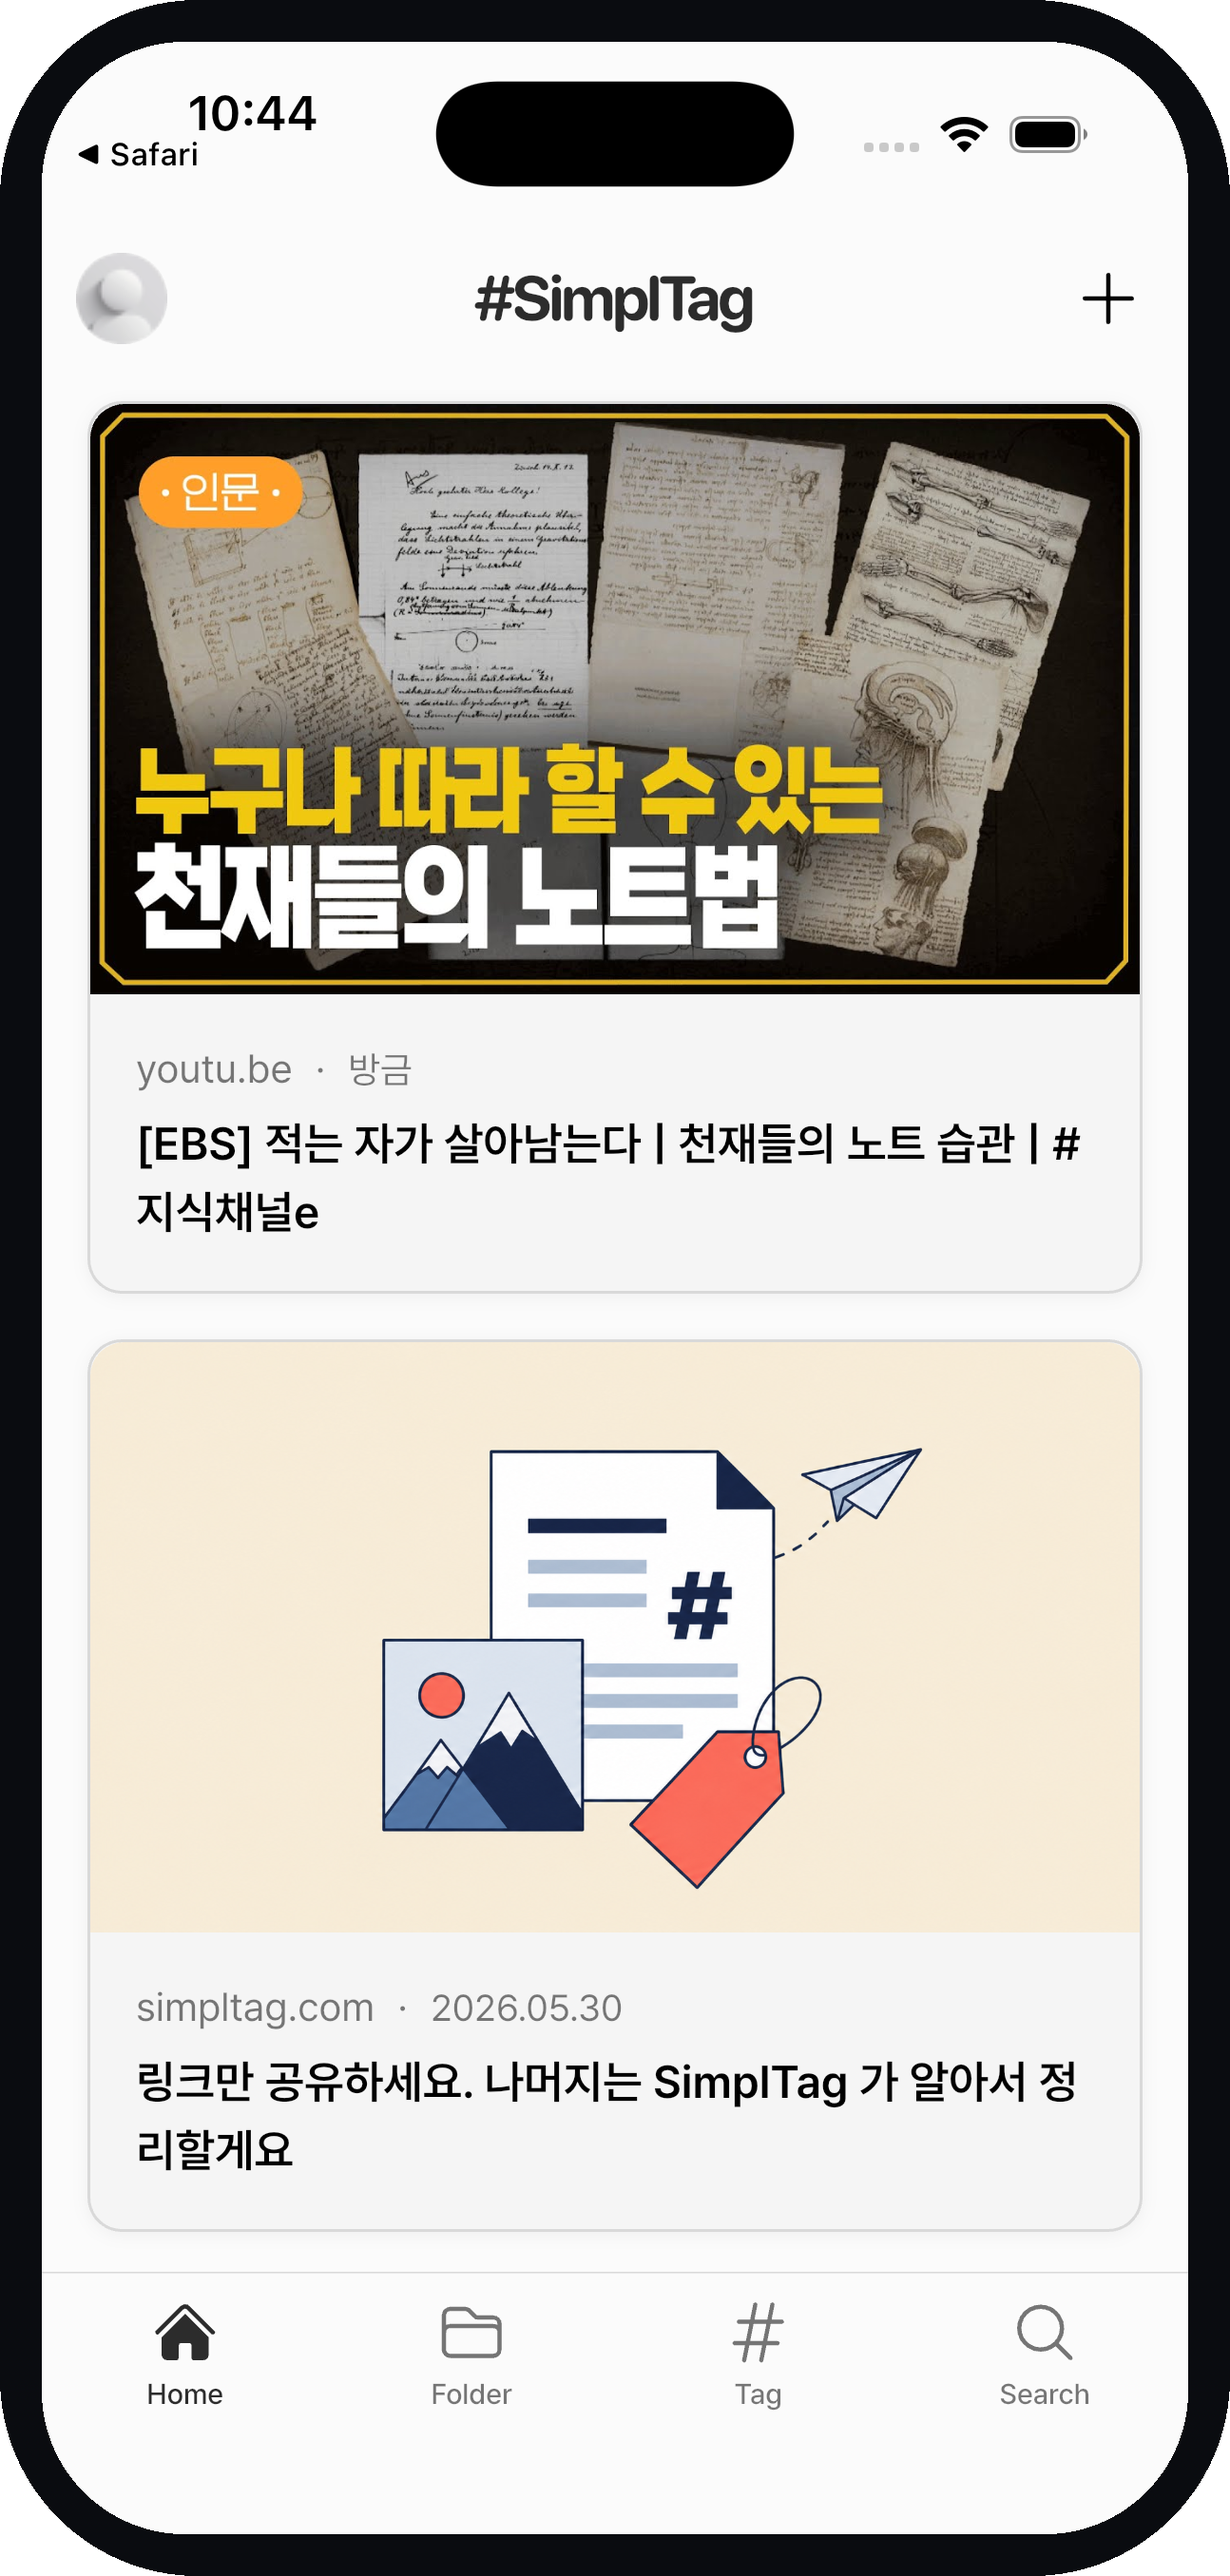
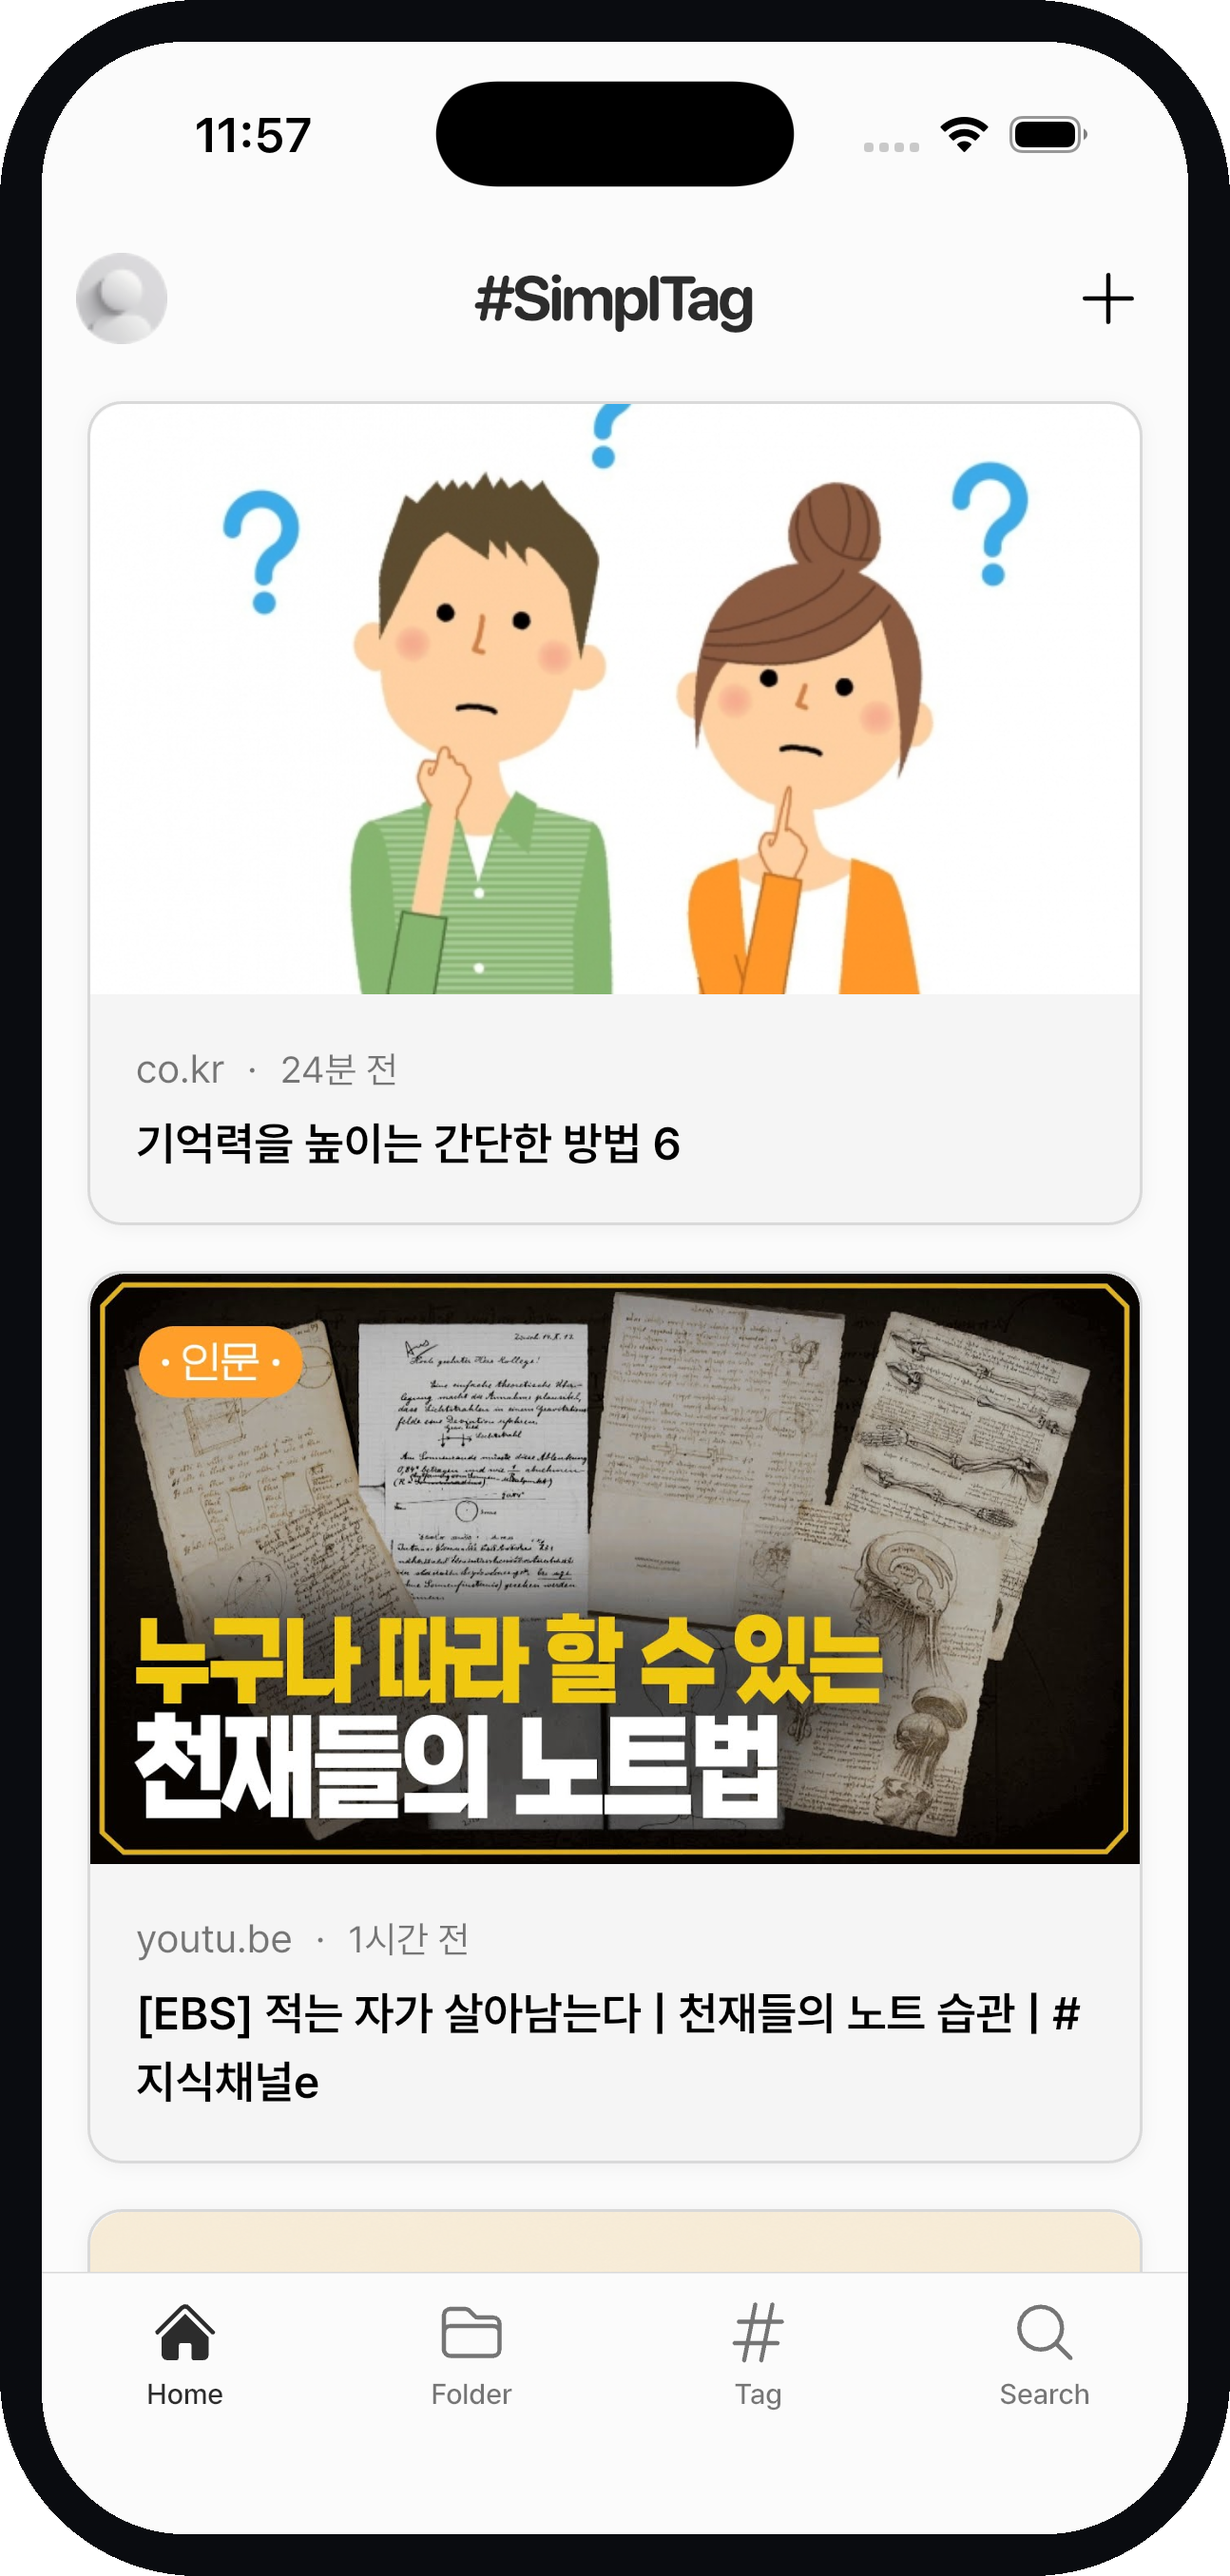
refine(landing): Features 3카드 재구성 — 다양한 콘텐츠/자동정리/자연어검색
- (신규 맨앞) '유튜브만이 아니에요' — 홈에 뉴스 기사+영상 섞인 다양성 피드
- '자동 정리' — 태그를 풍부하게 채운 상태로 재촬영(기록·노트·생산성·습관 등)
- '의미 검색' → '자연어 검색' — 콘텐츠 목록 대신 검색 결과 화면(질문→AI답변→결과 2개)
- '출처 기반 대화' 카드 삭제(검색과 중복). dead 에셋 list.png·chat.png 정리.

diff --git a/src/config/features.ts b/src/config/features.ts
@@ -37,30 +37,30 @@ export const HOW_STEPS: HowStep[] = [
  */
 export const FEATURE_BLOCKS: FeatureBlock[] = [
   {
+    id: "variety",
+    eyebrow: "유튜브만이 아니에요",
+    title: "영상도 기사도, 다 요약돼요",
+    body: "유튜브 영상이든 뉴스 기사든, 링크만 저장하면 심플태그가 핵심만 추려 한곳에 모아둡니다.",
+    image: "/screenshots/home.png",
+    alt: "영상과 뉴스 기사가 함께 쌓인 홈 화면",
+    accent: "blue",
+  },
+  {
     id: "organize",
     eyebrow: "자동 정리",
     title: "저장만 하면 알아서 정리돼요",
     body: "태그도 폴더도 직접 만들 필요 없어요. 심플태그가 콘텐츠를 읽고 어울리는 태그를 자동으로 붙여 분류해 둡니다.",
     image: "/screenshots/tag.png",
     alt: "자동으로 분류된 태그 목록 화면",
-    accent: "blue",
-  },
-  {
-    id: "search",
-    eyebrow: "의미 검색",
-    title: "한글로 물어도 영문 콘텐츠까지 찾아요",
-    body: "제목·요약·태그·메모를 모두 이해하는 의미 기반 검색이에요. 정확한 단어가 기억나지 않아도 떠오르는 대로 찾으세요.",
-    image: "/screenshots/list.png",
-    alt: "저장한 콘텐츠가 쌓인 아카이브 목록 화면",
     accent: "coral",
   },
   {
-    id: "chat",
-    eyebrow: "출처 기반 대화",
-    title: "저장한 콘텐츠에게 직접 물어보세요",
-    body: "AI가 내가 저장한 콘텐츠를 근거로 답해요. 지어내지 않고, 어떤 콘텐츠에서 나온 답인지 출처까지 보여드려요.",
-    image: "/screenshots/chat.png",
-    alt: "저장한 콘텐츠를 바탕으로 답하는 AI 대화 화면",
+    id: "search",
+    eyebrow: "자연어 검색",
+    title: "기억나는 대로 물어보세요",
+    body: "제목·요약·태그까지 다 이해하는 의미 기반 검색이에요. 정확한 단어가 아니어도 떠오르는 대로 물으면 찾아드려요.",
+    image: "/screenshots/search.png",
+    alt: "자연어로 질문해 관련 콘텐츠를 찾아주는 검색 결과 화면",
     accent: "blue",
   },
 ];
